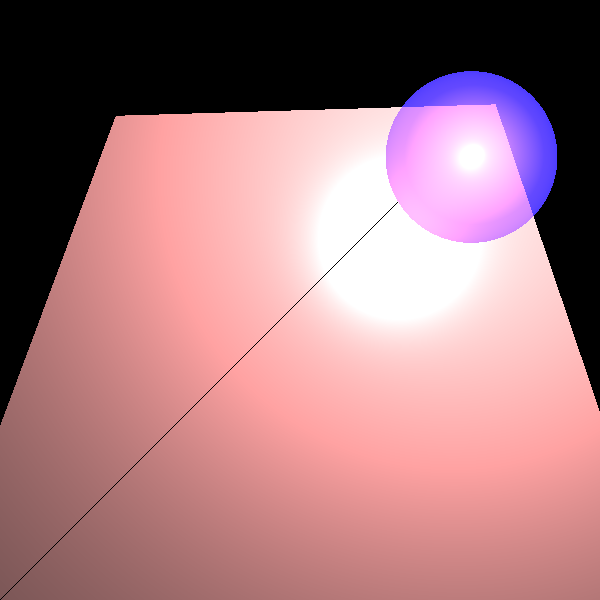
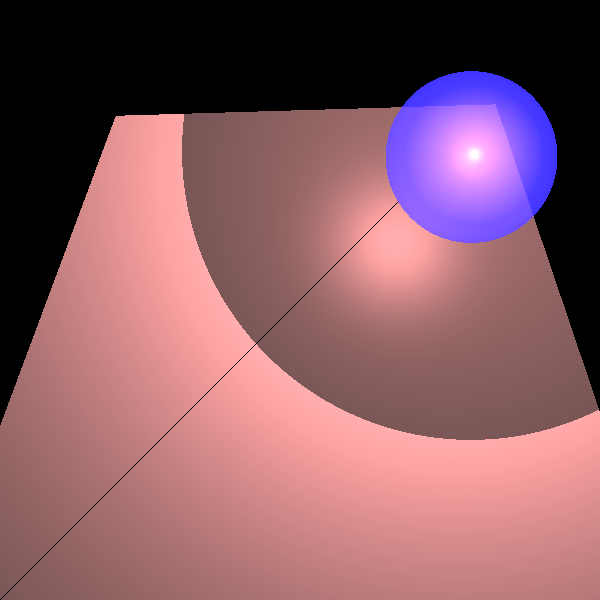
fixed problem with ray findClosetPoint, and all tests work

Changed region(s): [[0.3, 0.12, 1.0, 0.75]]

diff --git a/src/renderer/BasicRayTracer.java b/src/renderer/BasicRayTracer.java
@@ -167,7 +167,8 @@ public class BasicRayTracer extends RayTracerBase {
         Vector v = ray.getDir(); //the direction of the ray
         Vector n = intersection.geometry.getNormal(intersection.point); //the normal vector of the geometry
         double nv = alignZero(n.dotProduct(v)); //the rate between the normal of the geometry and the direction of the ray
-        if (nv == 0) return Color.BLACK; //if the ray doesn't hit the geometry, return black
+        if (nv == 0)
+            return Color.BLACK; //if the ray doesn't hit the geometry, return black
         Material material = intersection.geometry.getMaterial(); //the material of the geometry
         int nShininess = material.getShininess();
         double kd = material.getKd(), ks = material.getKs();
@@ -176,14 +177,12 @@ public class BasicRayTracer extends RayTracerBase {
         for (LightSource lightSource : _scene.lights) {
             Vector l = lightSource.getL(intersection.point); //get the direction of the current light
             double nl = alignZero(n.dotProduct(l)); //the rate between the normal of the geometry and the direction of the light
-            if (nl * nv > 0) { // sign(nl) == sing(nv)
-                double ktr = transparency(lightSource, l, n, intersection.point);
-                if (ktr * k > MIN_CALC_COLOR_K) {
-                    Color lightIntensity = lightSource.getIntensity(geopoint.point)).scale(ktr);
-
-                    if (unshaded(lightSource, l, n, intersection.point)) {
-                        Color lightIntensity = lightSource.getIntensity(intersection.point); //calculate the intensity in the intersection point
-                        //calculate the color using the Phong model formula
+            if (nl * nv > 0) { // sign(nl) == sign(nv)
+                double ktr = transparency(lightSource, l, n, intersection.point);// transparency coefficient
+                // if transparency is significant enough, add to calculation of the color
+                if (ktr * k > MIN_CALC_COLOR_K) {//
+                    Color lightIntensity = lightSource.getIntensity(intersection.point).scale(ktr);
+                    //calculate the color using the Phong model formula
                         color = color.add(calcDiffusive(kd, l, n, lightIntensity),
                                 calcSpecular(ks, l, n, v, nShininess, lightIntensity)); //add the color of this light to the main color
                     }
@@ -191,7 +190,7 @@ public class BasicRayTracer extends RayTracerBase {
             }
             return color;
         }
-    }
+
 
 
 
@@ -203,6 +202,7 @@ public class BasicRayTracer extends RayTracerBase {
      * @param point point that we would like to know if the light reaches it
      * @return true- if the light reaches the object, otherwise- false
      */
+    /**
     private boolean unshaded(LightSource light, Vector l, Vector n, Point3D point) {
         Vector dir=l.scale(-1);//vector from point towards light source
         Ray lightRay=new Ray(point,dir,n);
@@ -218,6 +218,7 @@ public class BasicRayTracer extends RayTracerBase {
         return true;
 
     }
+     */
 
     /**
      * calculates transparency coefficient in order to achieve accurate amount of transparency

diff --git a/Tests/elements/ReflectionRefractionTests.java b/Tests/elements/ReflectionRefractionTests.java
@@ -117,3 +117,5 @@ public class ReflectionRefractionTests {
         render.writeToImage();
     }
 }
+
+
